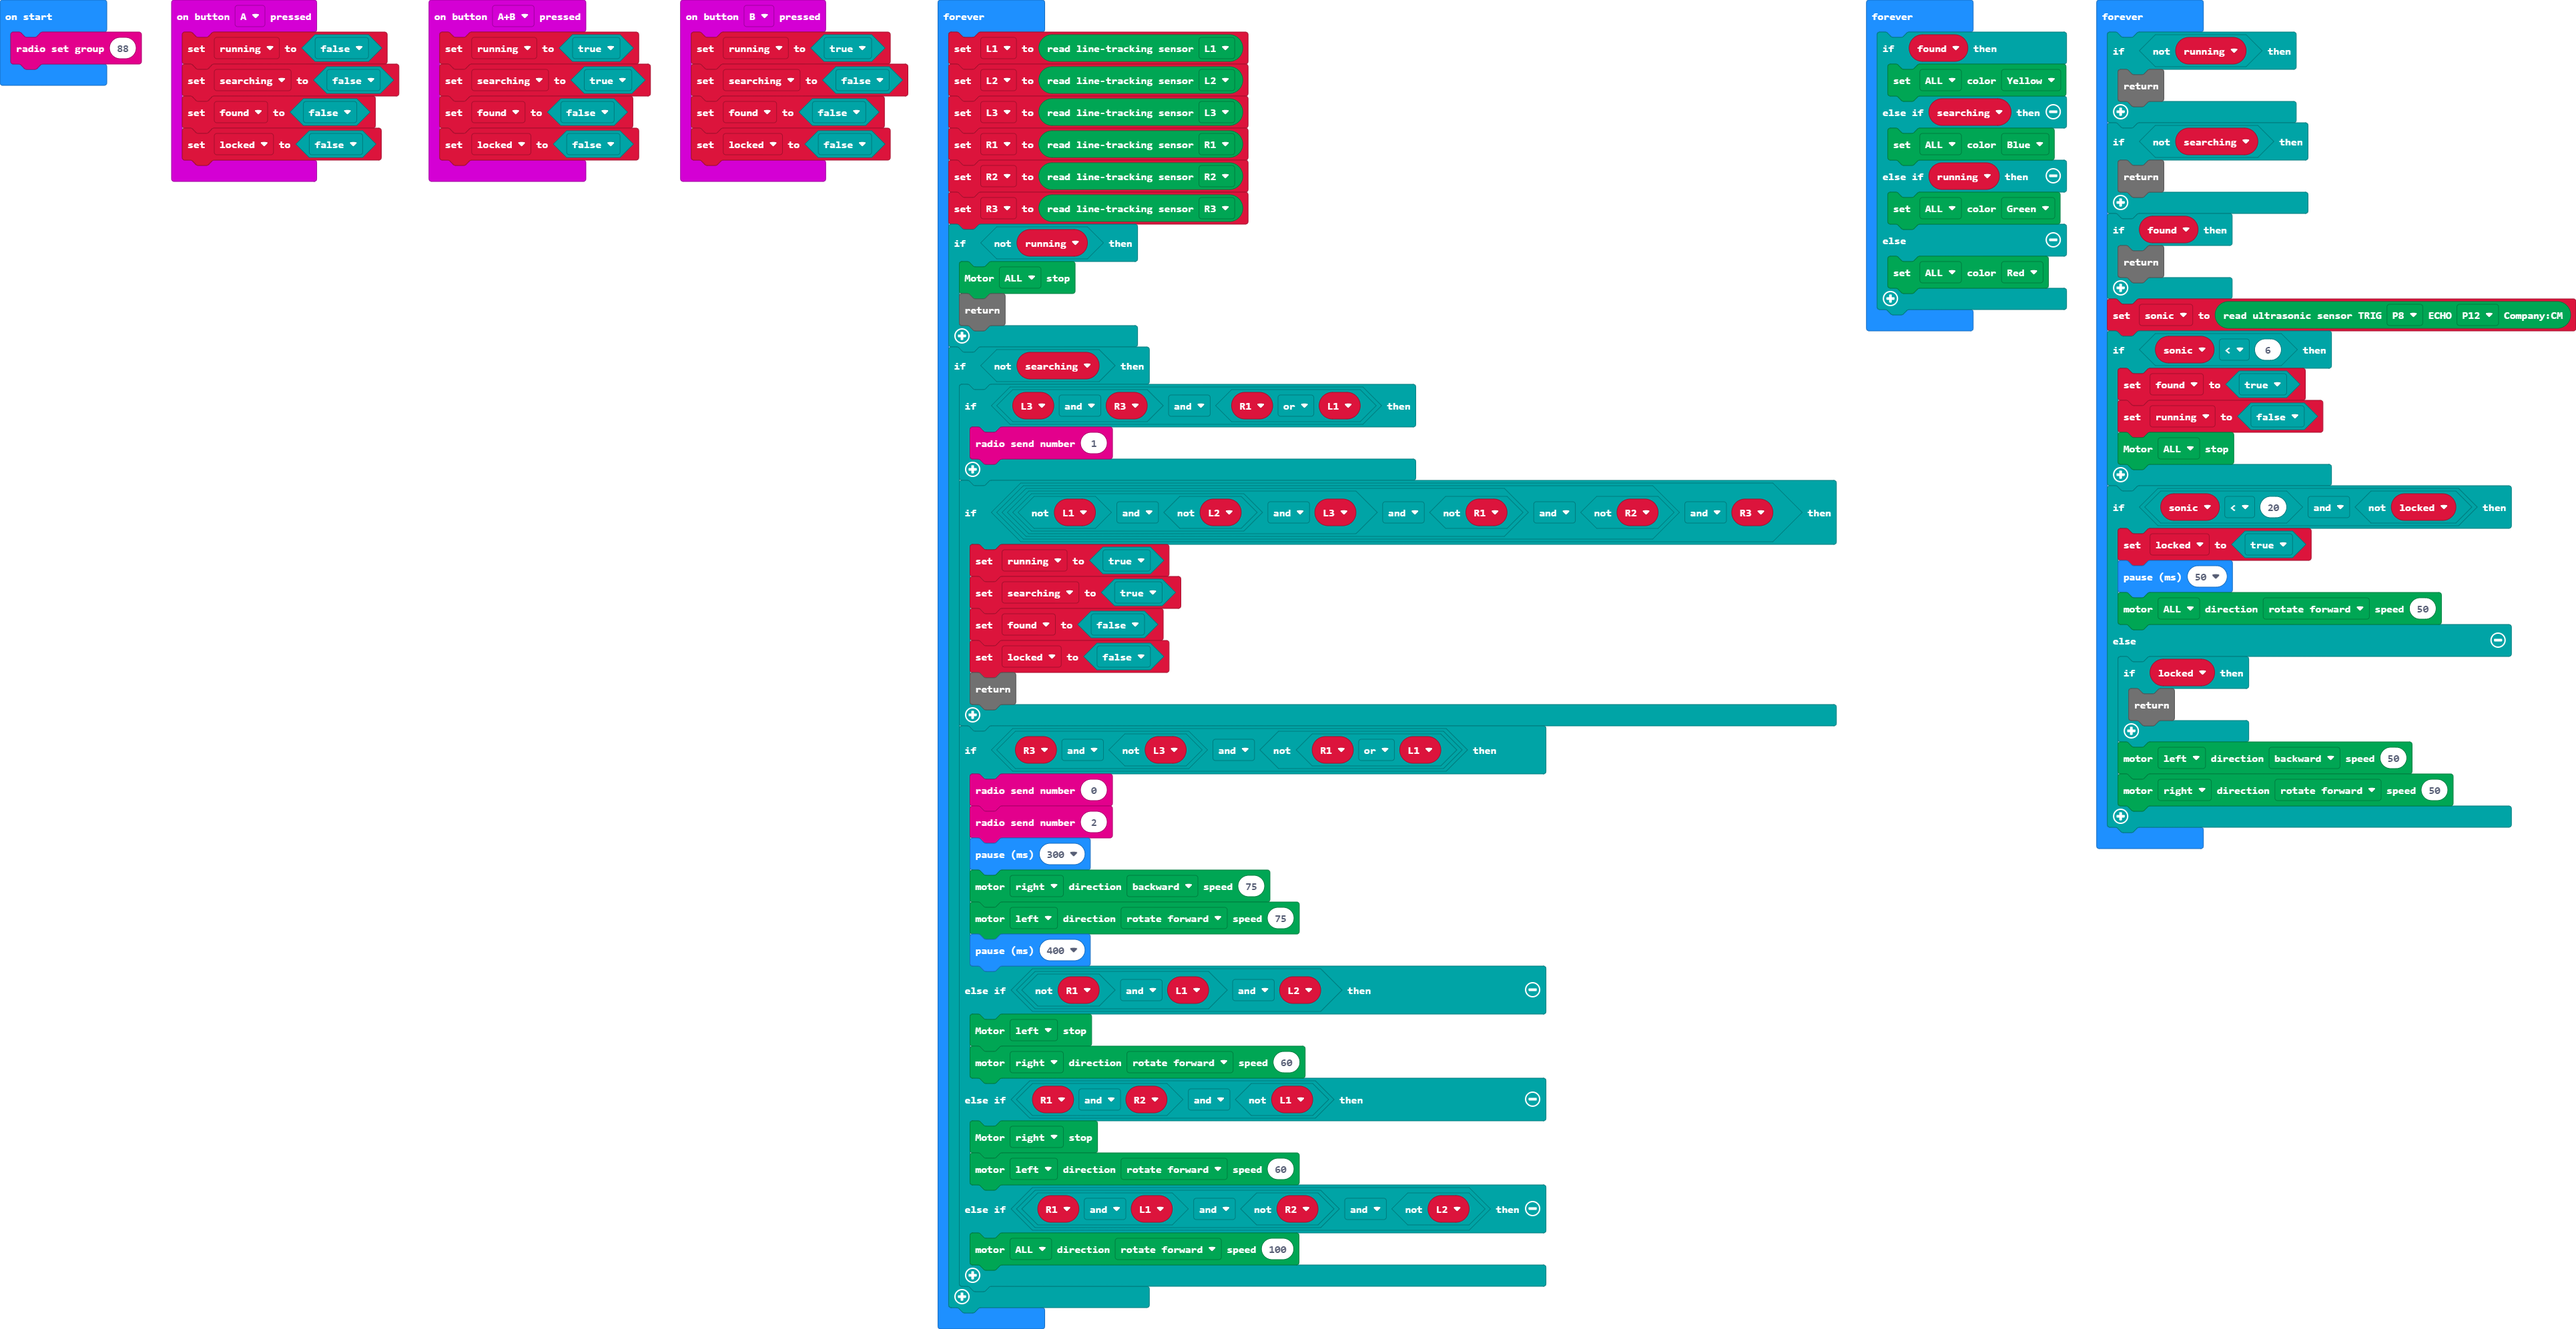
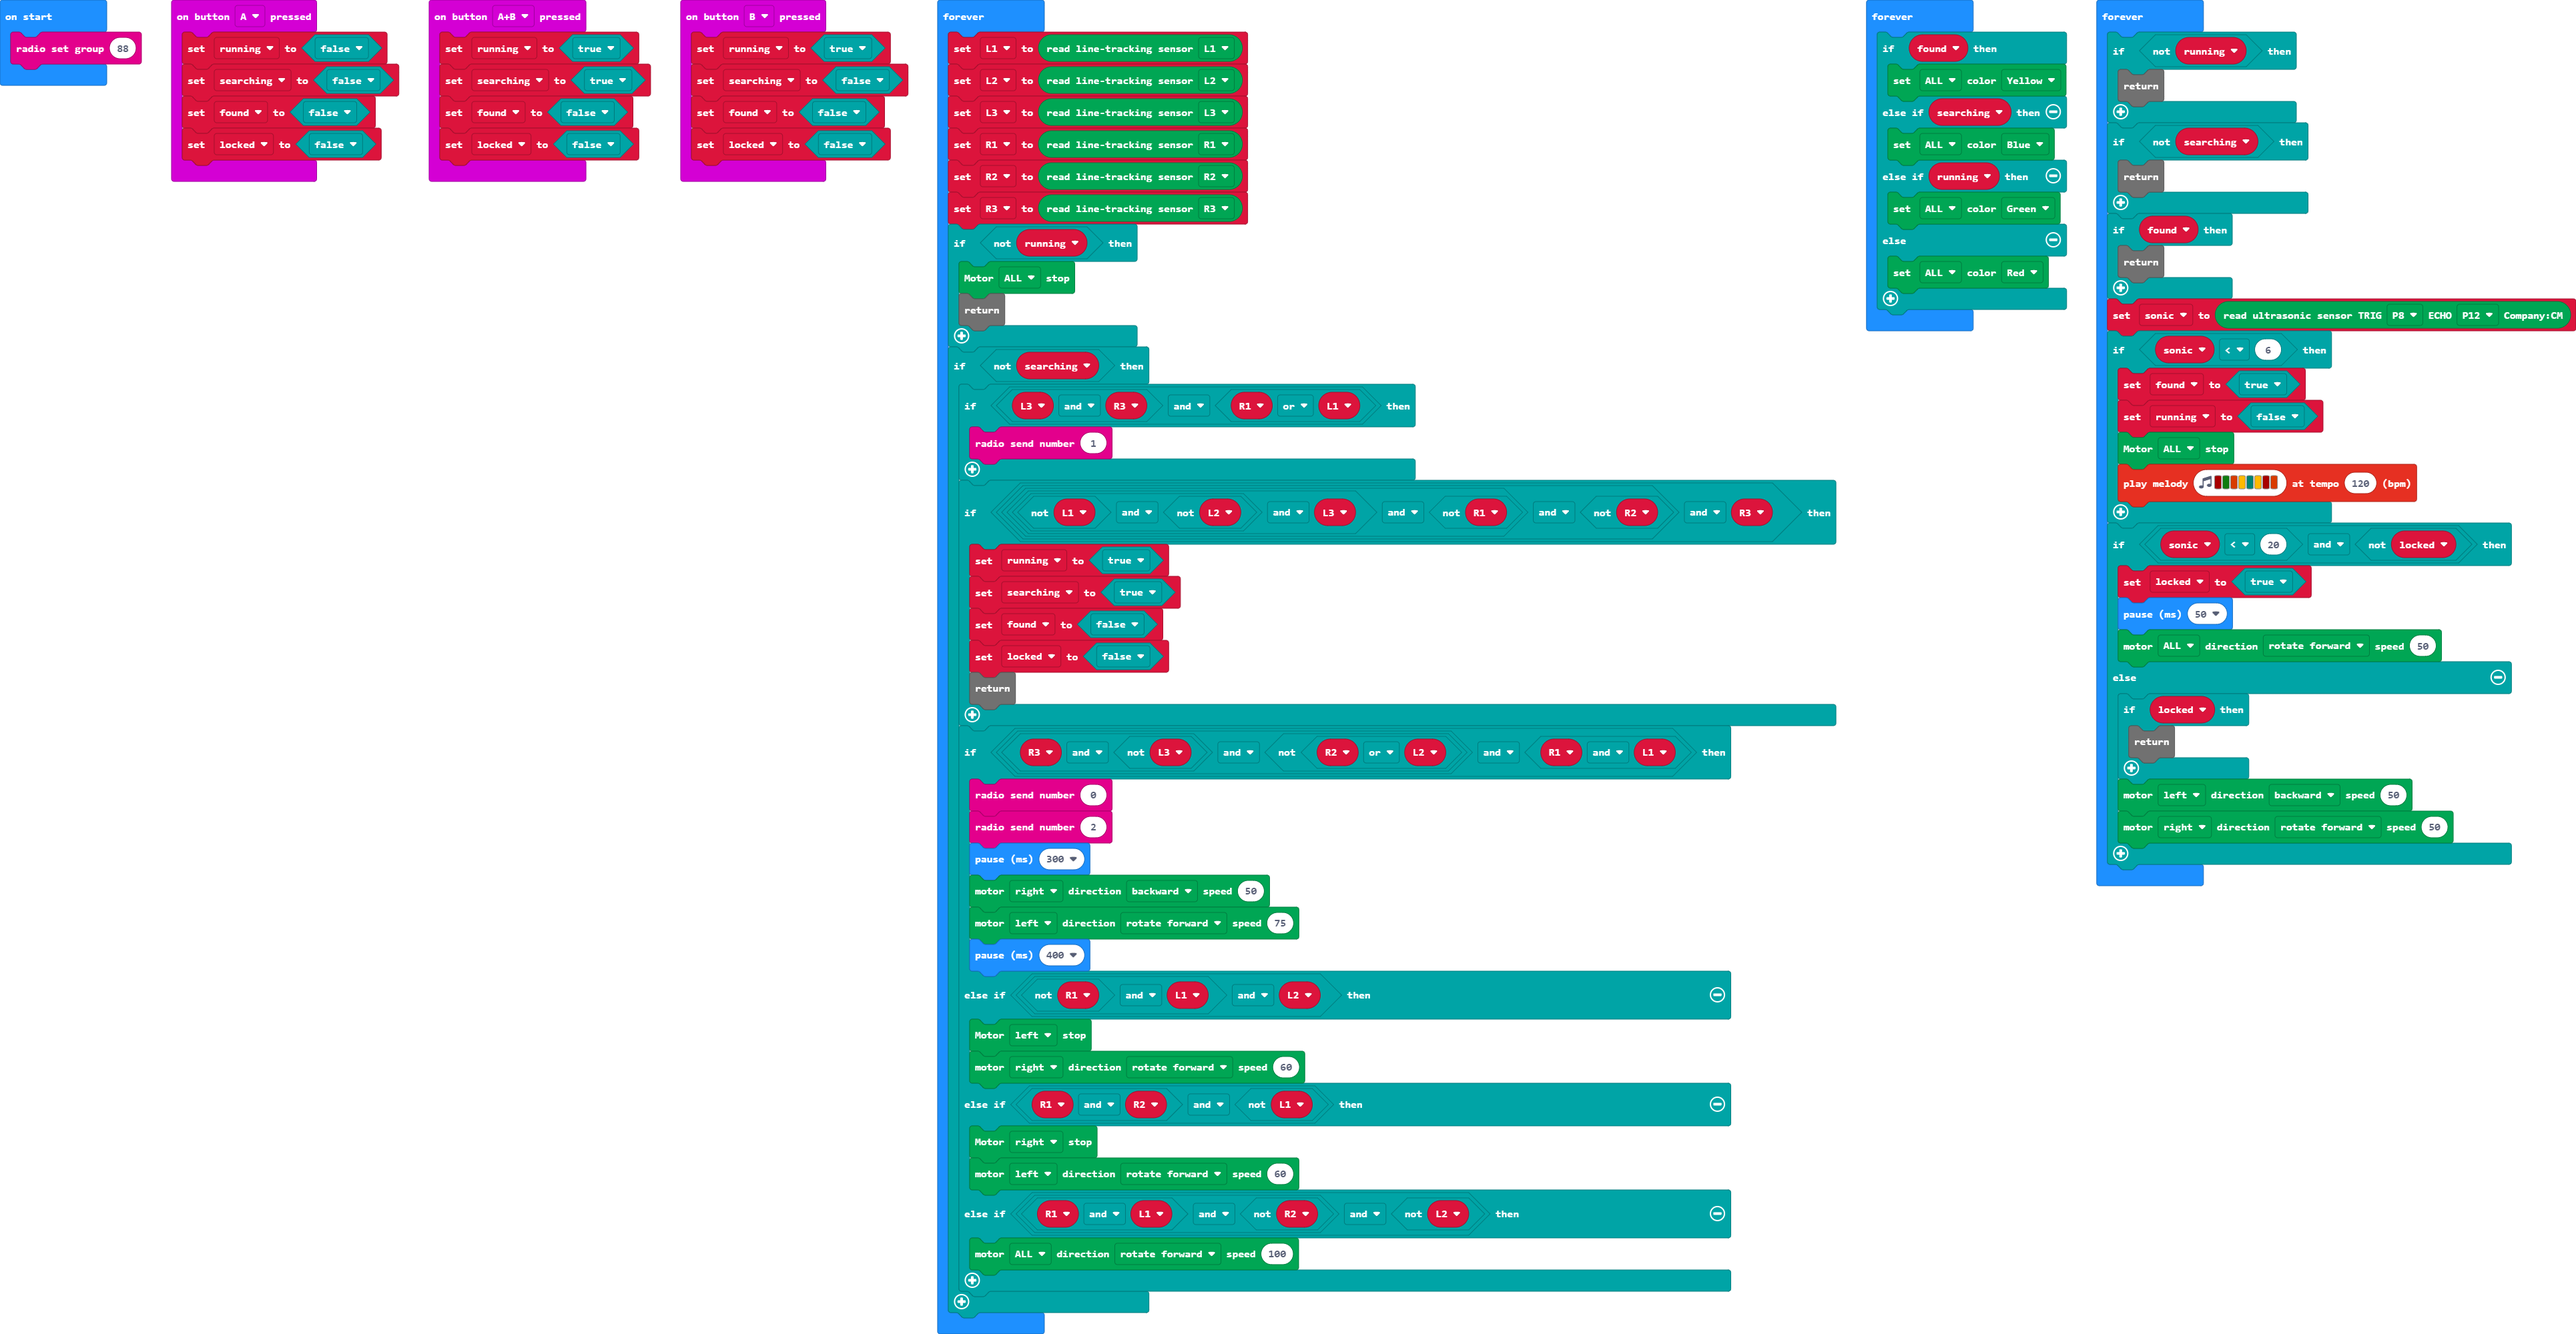
Add sound

diff --git a/main.ts b/main.ts
@@ -94,6 +94,7 @@ basic.forever(function () {
         found = true
         running = false
         DFRobotMaqueenPlus.mototStop(Motors.ALL)
+        music.playMelody("C5 G B A F A C5 B ", 120)
     }
     if (sonic < 20 && !(locked)) {
         locked = true
